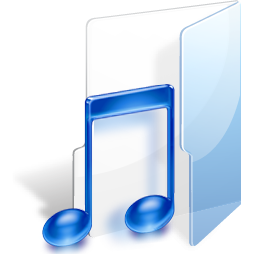
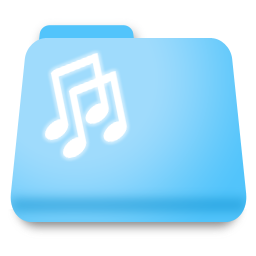
3.2.106

diff --git a/src/view/src/page/SingerPage/AlbumPage.cpp b/src/view/src/page/SingerPage/AlbumPage.cpp
@@ -64,8 +64,10 @@ BOOL CAlbumPage::OnInitDialog()
 {
 	(void)CPage::OnInitDialog();
 
-	auto& globalSize = m_view.m_globalSize;
+	cauto strSingerImg = m_view.m_ImgMgr.getImgPath(L"singerdefault");
+	__AssertReturn(m_imgSingerDefault.Load(strSingerImg), FALSE);
 
+	auto& globalSize = m_view.m_globalSize;
 	m_wndAlbumList.SetImageList(NULL, &m_view.m_ImgMgr.bigImglst());
 	
 	(void)m_wndAlbumList.ModifyStyle(0, LVS_NOCOLUMNHEADER | LVS_SINGLESEL | LVS_EDITLABELS);
@@ -77,14 +79,6 @@ BOOL CAlbumPage::OnInitDialog()
 
 	__AssertReturn(m_wndAlbumList.InitCtrl(ListPara), FALSE);
 	
-	cauto strSingerImg = m_view.m_ImgMgr.getImgPath(L"singerdefault");
-	__AssertReturn(m_imgSingerDefault.Load(strSingerImg), FALSE);
-
-	/*cauto strAlbumImg = m_view.m_ImgMgr.getImgPath(L"album");
-	cauto strDirImg = m_view.m_ImgMgr.getImgPath(L"dir");
-	static Gdiplus::Image imgDir(strDirImg.c_str());
-	static Gdiplus::Image imgAlbum(strAlbumImg.c_str());*/
-
 	m_wndAlbumList.SetCustomDraw([&](tagLVDrawSubItem& lvcd) {
 		CAlbum *pAlbum = (CAlbum*)lvcd.pObject;
 		if (pAlbum)
@@ -103,19 +97,10 @@ BOOL CAlbumPage::OnInitDialog()
 
 		CDC& dc = lvcd.dc;
 		auto& rc = lvcd.rc;
-		
-#define __margin 5
-		//auto sz = rc.bottom - rc.top + 1 - __margin * 2; \
-		RECT rcImg{ rc.left + __margin, rc.top + __margin, rc.left+__margin+sz, rc.top+__margin+sz}; \
-		\
-		auto& img = (0 == lvcd.uItem) ? imgDir : imgAlbum; \
-		Gdiplus::Graphics graphics(dc); \
-		graphics.SetInterpolationMode(Gdiplus::InterpolationModeHighQuality); \
-		graphics.DrawImage(&img, rcImg.left, rcImg.top, sz, sz);
-
-		auto iImage = (0 == lvcd.uItem) ? (int)E_GlobalImage::GI_Dir : (int)E_GlobalImage::GI_Album; \
-				auto offset = (rc.bottom - rc.top + 1 - (int)m_view.m_globalSize.m_uBigIconSize) / 2; \
-			m_view.m_ImgMgr.bigImglst().Draw(&dc, iImage, { rc.left + offset, rc.top + offset }, 0);
+	
+		auto iImage = (0 == lvcd.uItem) ? (int)E_GlobalImage::GI_Dir : (int)E_GlobalImage::GI_Album;
+				auto offset = (rc.bottom - rc.top + 1 - (int)m_view.m_globalSize.m_uBigIconSize) / 2;
+		m_view.m_ImgMgr.bigImglst().Draw(&dc, iImage, { rc.left + offset, rc.top + offset }, 0);
 
 		if (0 == lvcd.uItem)
 		{

diff --git a/src/XMusic/cpp/MedialibView.cpp b/src/XMusic/cpp/MedialibView.cpp
@@ -30,14 +30,14 @@ void CMedialibView::init()
     (void)m_pmSingerGroup.load(__mediaPng(singergroup));
     (void)m_pmDefaultSinger.load(__mediaPng(singerdefault));
     (void)m_pmAlbum.load(__mediaPng(album));
-    //(void)m_pmAlbumItem.load(__mediaPng(media));
 
     (void)m_pmPlaylistSet.load(__mediaPng(playlistset));
     (void)m_pmPlaylist.load(__mediaPng(playlist));
-    (void)m_pmPlayItem.load(__mediaPng(media));
+    (void)m_pmPlayItem.load(__mediaPng(playItem));
 
     (void)m_pmXmusicDir.load(__mediaPng(xmusicdir));
     (void)m_pmSSDir.load(__mediaPng(ssdir));
+    (void)m_pmSSFile.load(__mediaPng(media));
 
     (void)m_pmHires.load(__mediaPng(hires));
     (void)m_pmDSD.load(__mediaPng(dsd));
@@ -378,10 +378,17 @@ void CMedialibView::_genMediaContext(tagMediaContext& context)
     }
     else if (context.pFile)
     {
-       context.pixmap = &m_pmFile;
-
-       auto pMediaRes = ((CMediaRes*)context.pFile);
-       context.strText = pMediaRes->isXmsc() ? pMediaRes->GetTitle() : pMediaRes->fileName();
+        auto pMediaRes = ((CMediaRes*)context.pFile);
+        if (pMediaRes->parent()->dirType() == E_MediaDirType::MDT_Snapshot)
+        {
+            context.pixmap = &m_pmSSFile;
+            context.strText = pMediaRes->GetTitle();
+        }
+        else
+        {
+            context.pixmap = &m_pmFile;
+            context.strText = pMediaRes->fileName();
+        }
     }
 
     IMedia* pMedia = ((tagMediaContext&)context).media();

diff --git a/src/XMusic/cpp/MedialibView.h b/src/XMusic/cpp/MedialibView.h
@@ -27,7 +27,6 @@ private:
     QPixmap m_pmSingerGroup;
     QPixmap m_pmDefaultSinger;
     QPixmap m_pmAlbum;
-    //QPixmap m_pmAlbumItem;
 
     QPixmap m_pmPlaylistSet;
     QPixmap m_pmPlaylist;
@@ -35,6 +34,7 @@ private:
 
     QPixmap m_pmXmusicDir;
     QPixmap m_pmSSDir;
+    QPixmap m_pmSSFile;
 
     QPixmap m_pmHires;
     QPixmap m_pmDSD;
